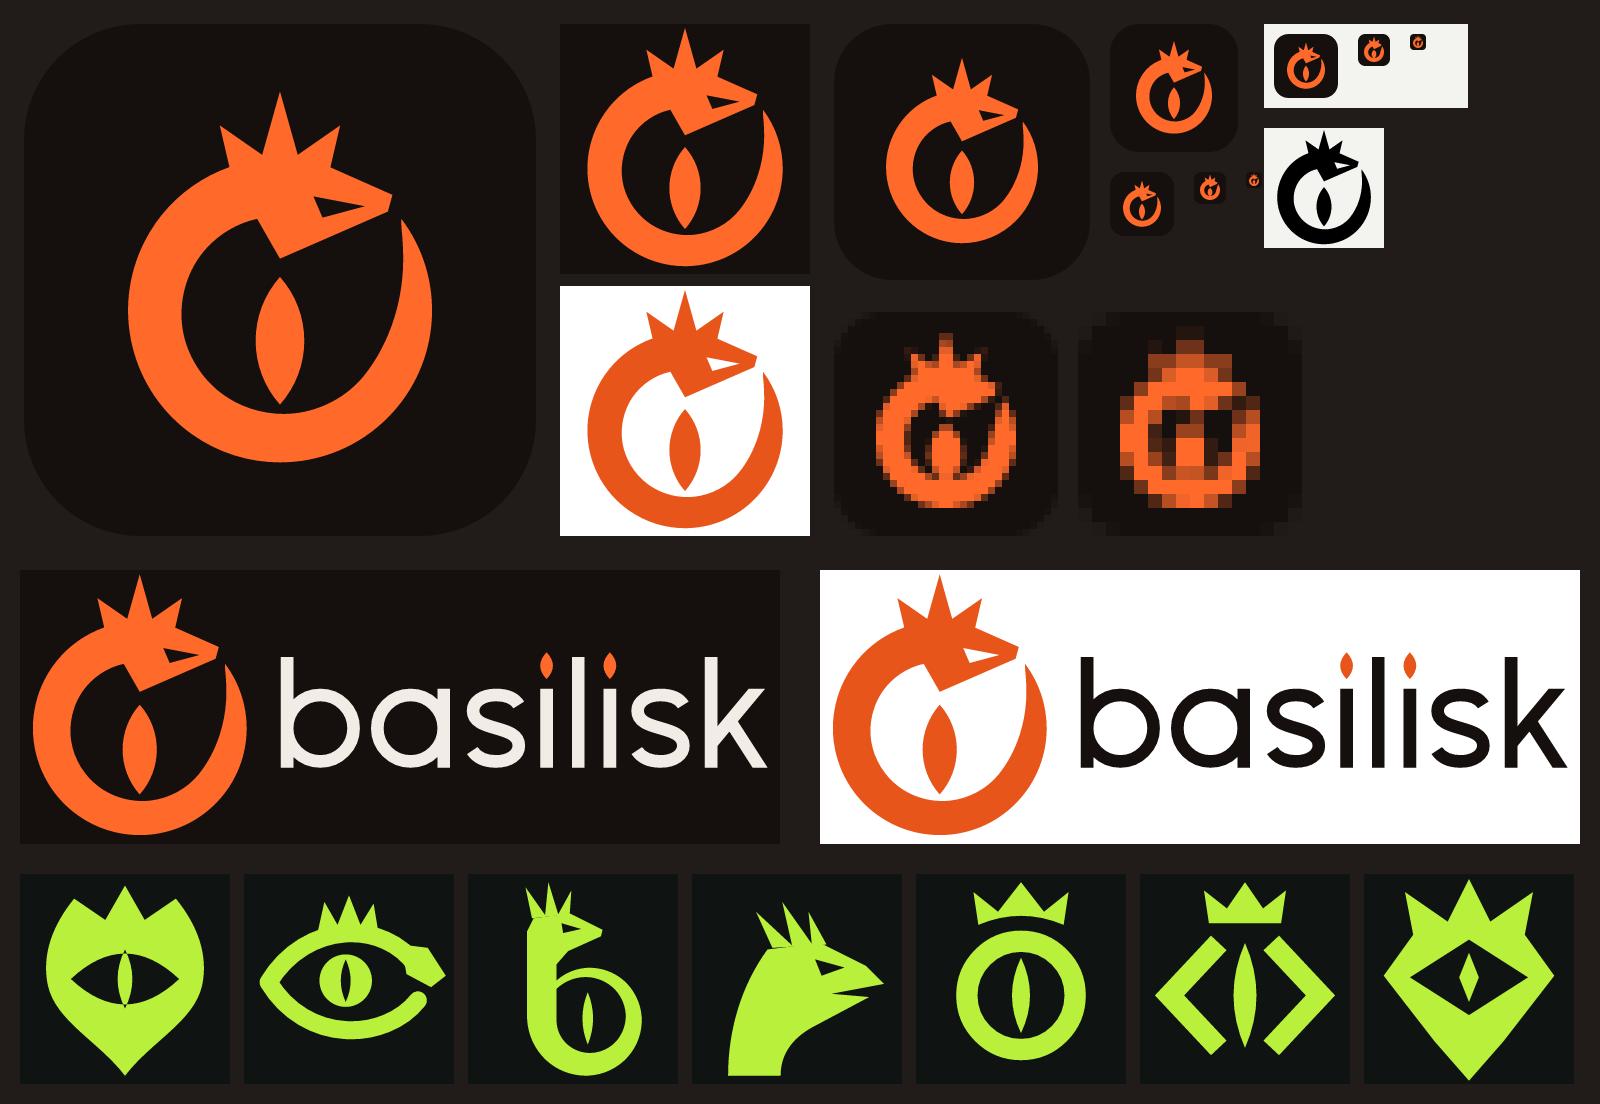
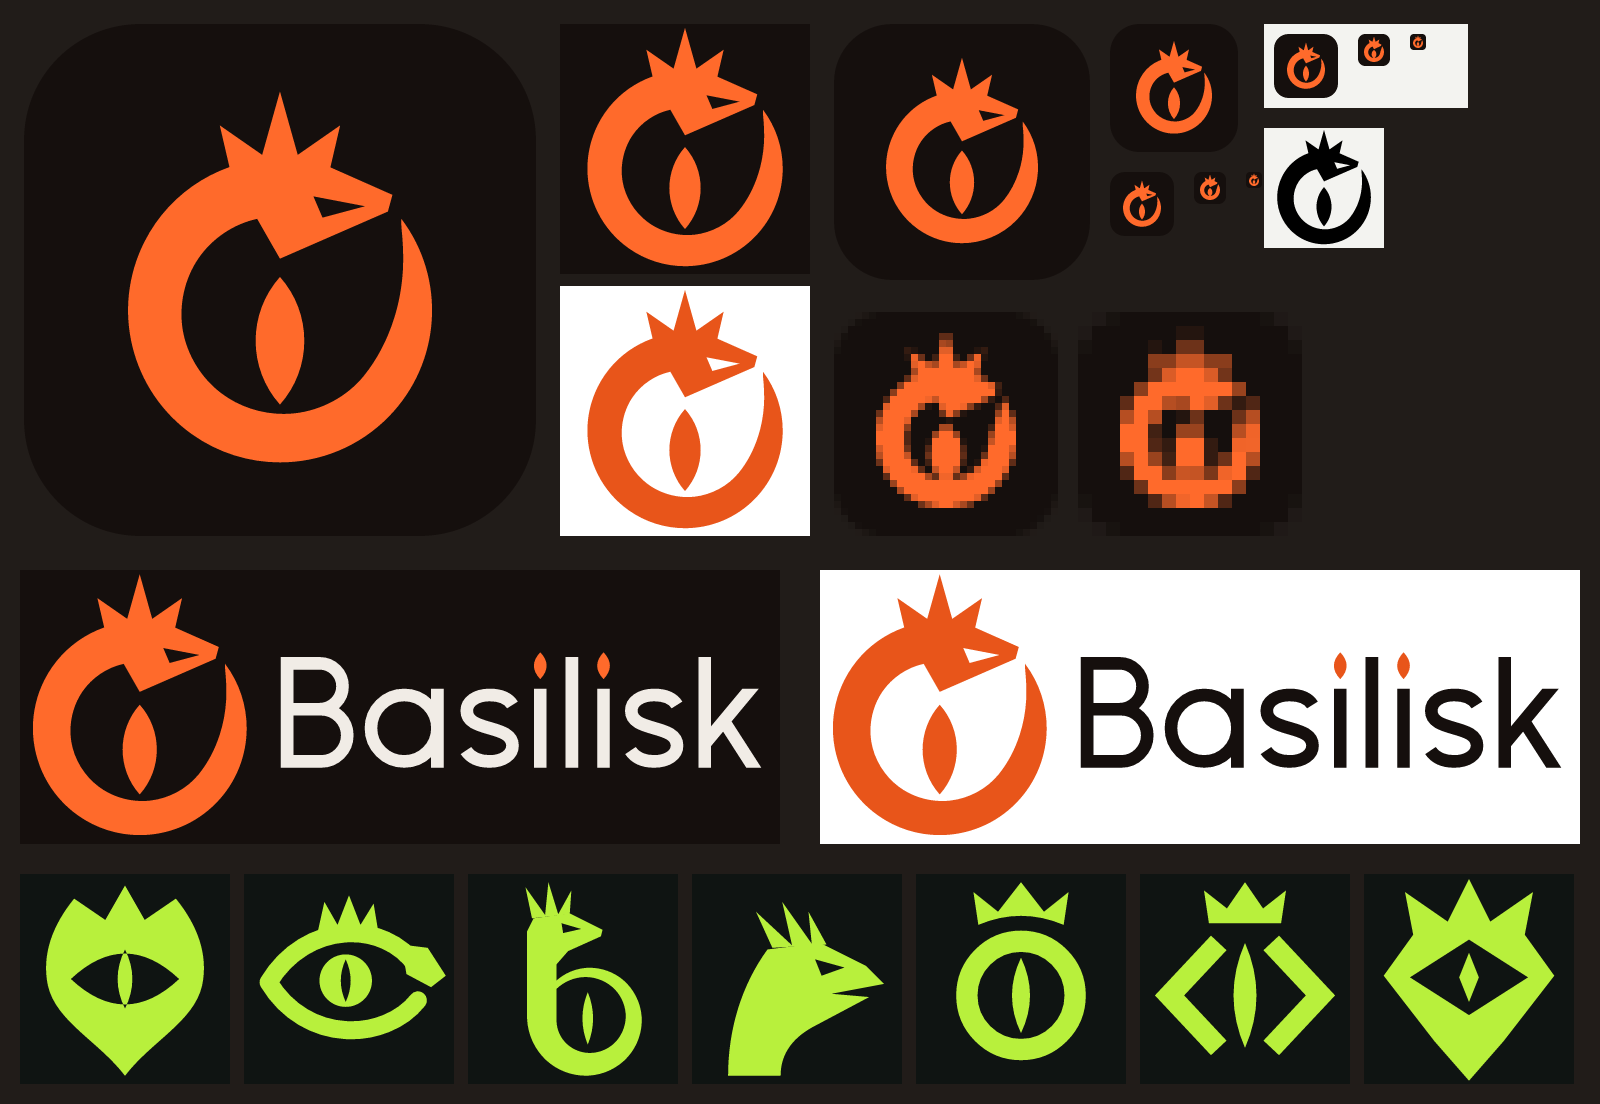
brand: capital B in the wordmark
Draw the wordmark's first letter as a capital B in word.py, in the same
monoline hand as the rest: 16-unit stroke, butt ends, stem as tall as
the l and k on the same baseline, two bowls of a bar and a half circle,
14 units from the a as the b was. Regenerate with tools/build.py: only
the two logo SVGs and the three previews that show them change, and the
emblem paths are byte-identical. The B is 8 units narrower than the b,
so the other letters move left; the logo keeps its 711-unit width
(brand.py no longer shrinks it), and its aria-label reads Basilisk.
Copy the new wordmark paths into the site's inline Logo.astro and set
the logo alt text to Basilisk.

Changed region(s): [[0.6875, 0.5851, 0.9688, 0.7083], [0.1875, 0.5851, 0.4688, 0.7083]]

diff --git a/assets/brand/tools/word.py b/assets/brand/tools/word.py
@@ -5,6 +5,14 @@ def letters(W=16):
     h=W/2; r=50-h
     out=[]
     def b(x): return [('s',f'M{f(x+h)} 0 V140'),('s',f'M{f(x+h)} 90 a{f(r)} {f(r)} 0 1 0 {f(2*r)} 0 a{f(r)} {f(r)} 0 1 0 {f(-2*r)} 0')],100
+    def B(x):
+        # capital B: stem as tall as l and k (cap height = ascender, y 0..140); two
+        # bowls of a horizontal bar and a half circle each, the lower one wider
+        mid=66; r1=(mid-h)/2; r2=(140-h-mid)/2; ru,rl=78,84  # bar centre, bowl right edges
+        c1,c2=x+ru-r1,x+rl-r2
+        return [('s',f'M{f(x+h)} 0 V140'),
+                ('s',f'M{f(x+h)} {f(h)} H{f(c1)} A{f(r1)} {f(r1)} 0 0 1 {f(c1)} {f(mid)} H{f(x+h)}'),
+                ('s',f'M{f(x+h)} {f(mid)} H{f(c2)} A{f(r2)} {f(r2)} 0 0 1 {f(c2)} {f(140-h)} H{f(x+h)}')],rl+h
     def a(x): return [('s',f'M{f(x+100-h)} 40 V140'),('s',f'M{f(x+h)} 90 a{f(r)} {f(r)} 0 1 0 {f(2*r)} 0 a{f(r)} {f(r)} 0 1 0 {f(-2*r)} 0')],100
     def s(x):
         sk=[(65,62),(60,54),(50,50),(38,50),(22,50),(11,58),(11,69),(11,82),(24,86),(38,90),(52,94),(65,98),(65,111),(65,122),(54,130),(38,130),(26,130),(16,126),(10,117)]
@@ -27,7 +35,7 @@ def letters(W=16):
         ax,ay,bx,by=sx+18,84,sx+54,140; dx,dy=bx-ax,by-ay; L=math.hypot(dx,dy); nx,ny=dy/L*h,-dx/L*h; hc=W/(dy/L)
         leg=f'M{f(ax+nx)} {f(ay+ny)} L{f(bx+hc/2)} 140 H{f(bx-hc/2)} L{f(ax-nx)} {f(ay-ny)} Z'
         return [('s',f'M{f(x+h)} 0 V140'),('f',arm),('f',leg)],W+54+hc/2
-    seq=[(b,14),(a,20),(s,18),(i,24),(l,24),(i,18),(s,18),(k,0)]
+    seq=[(B,14),(a,20),(s,18),(i,24),(l,24),(i,18),(s,18),(k,0)]
     x=0
     for fn,gap in seq:
         parts,w=fn(x); out+=parts; x+=w+gap

diff --git a/assets/brand/tools/brand.py b/assets/brand/tools/brand.py
@@ -71,8 +71,8 @@ def icon(parts, scale, dy, note=''):
 def logo(markc, ink, dot, s=0.74, wx=244, W=16):
     wy=CY-90*s
     w,ww=word.word_svg(ink,dot,'    ',W)
-    Wd=round(wx+ww*s+12)
-    return f'''<svg xmlns="http://www.w3.org/2000/svg" viewBox="0 0 {Wd} 256" role="img" aria-label="basilisk">
+    Wd=max(round(wx+ww*s+12),711)  # keep the published 711 width (Logo.astro, preview sizes); grow only to avoid clipping
+    return f'''<svg xmlns="http://www.w3.org/2000/svg" viewBox="0 0 {Wd} 256" role="img" aria-label="Basilisk">
   <g fill="{markc}" transform="translate(-16 0)">
 {mark_paths(FULL,'    ')}  </g>
   <!-- wordmark: monoline letters drawn as strokes (no font needed); the i-dots repeat the slit pupil -->

diff --git a/assets/brand/README.md b/assets/brand/README.md
@@ -68,7 +68,7 @@ For a README that follows the viewer's theme:
 ```html
 <picture>
   <source media="(prefers-color-scheme: dark)" srcset="assets/brand/basilisk-logo-dark.svg">
-  <img src="assets/brand/basilisk-logo.svg" alt="basilisk" width="360">
+  <img src="assets/brand/basilisk-logo.svg" alt="Basilisk" width="360">
 </picture>
 ```
 

diff --git a/README.md b/README.md
@@ -1,4 +1,4 @@
-<p align="center"><img src="assets/brand/basilisk-logo.svg" alt="basilisk" width="420"></p>
+<p align="center"><img src="assets/brand/basilisk-logo.svg" alt="Basilisk" width="420"></p>
 
 # Basilisk
 
